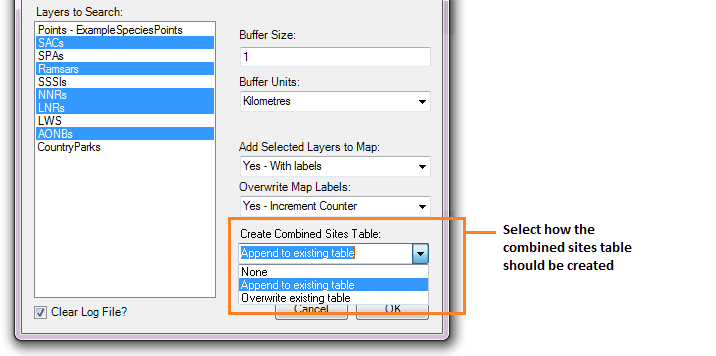
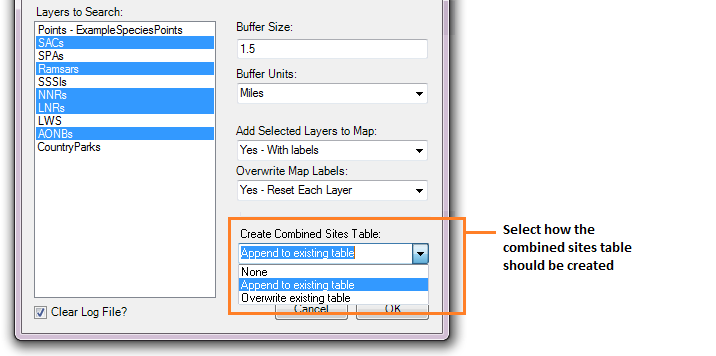
Some new content for the group layer functionality
first upload, still testing.

diff --git a/execute/execute.rst b/execute/execute.rst
@@ -67,7 +67,7 @@ If there are any structural issues with the XML document, the tool will display 
 
    \newpage
 
-Provided that the XML document is otherwise correct, the form will display (:numref:`figDisplayFormArcGIS`).
+Provided that the XML document is otherwise correct, the form will display (:numref:`figDisplayFormArcGIS`), using the settings given in the XML file for the defaults.
 
 .. _figDisplayformArcGIS:
 
@@ -181,8 +181,12 @@ If you have selected 'Yes - With labels', select how labels should be added in t
 	Select how labels should be added to the map, if at all
 
 - **No** ... Existing map labels will not be overwritten. However, new map labels will be created if the map label column given in the configuration document doesn't exist.
-- **Yes - Reset Counter** ... Labels will be numbered from 1 and increase by 1 for each feature.
-- **Yes - Increment Counter** ...  Labels will be numbered from 1 and increase by 1 for each feature, but the counter will increase incrementally for all the layers (i.e. it will not reset to 1 at the start of each layer).
+- **Yes - Reset Each Layer** ... Labels will be numbered from 1 and increase by 1 for each feature. For each new layer the label number will be reset to 1.
+- **Yes - Reset Each Group** ...  Labels will be numbered from 1 and increase by 1 for each feature in a layer group. For the first layer in each new layer group the label number will be reset to 1.
+- **Yes - Do Not Reset** ... Labels will be numbered from 1 and increase by 1 for each feature, but the counter will increase incrementally for all the layers (i.e. it will not reset to 1 at the start of each layer).
+
+.. note:: 
+	A 'layer group' is defined by the inclusion of a hyphen in the layer definition. The part of the layer definition before the hyphen is treated as the group name (see :ref:`GroupLayers <grouplayers>`)
 
 .. note::
 	Map layers will be labelled in accordance with the settings that are given for each map layer in the configuration document. These settings can override the above options in the following circumstances:
